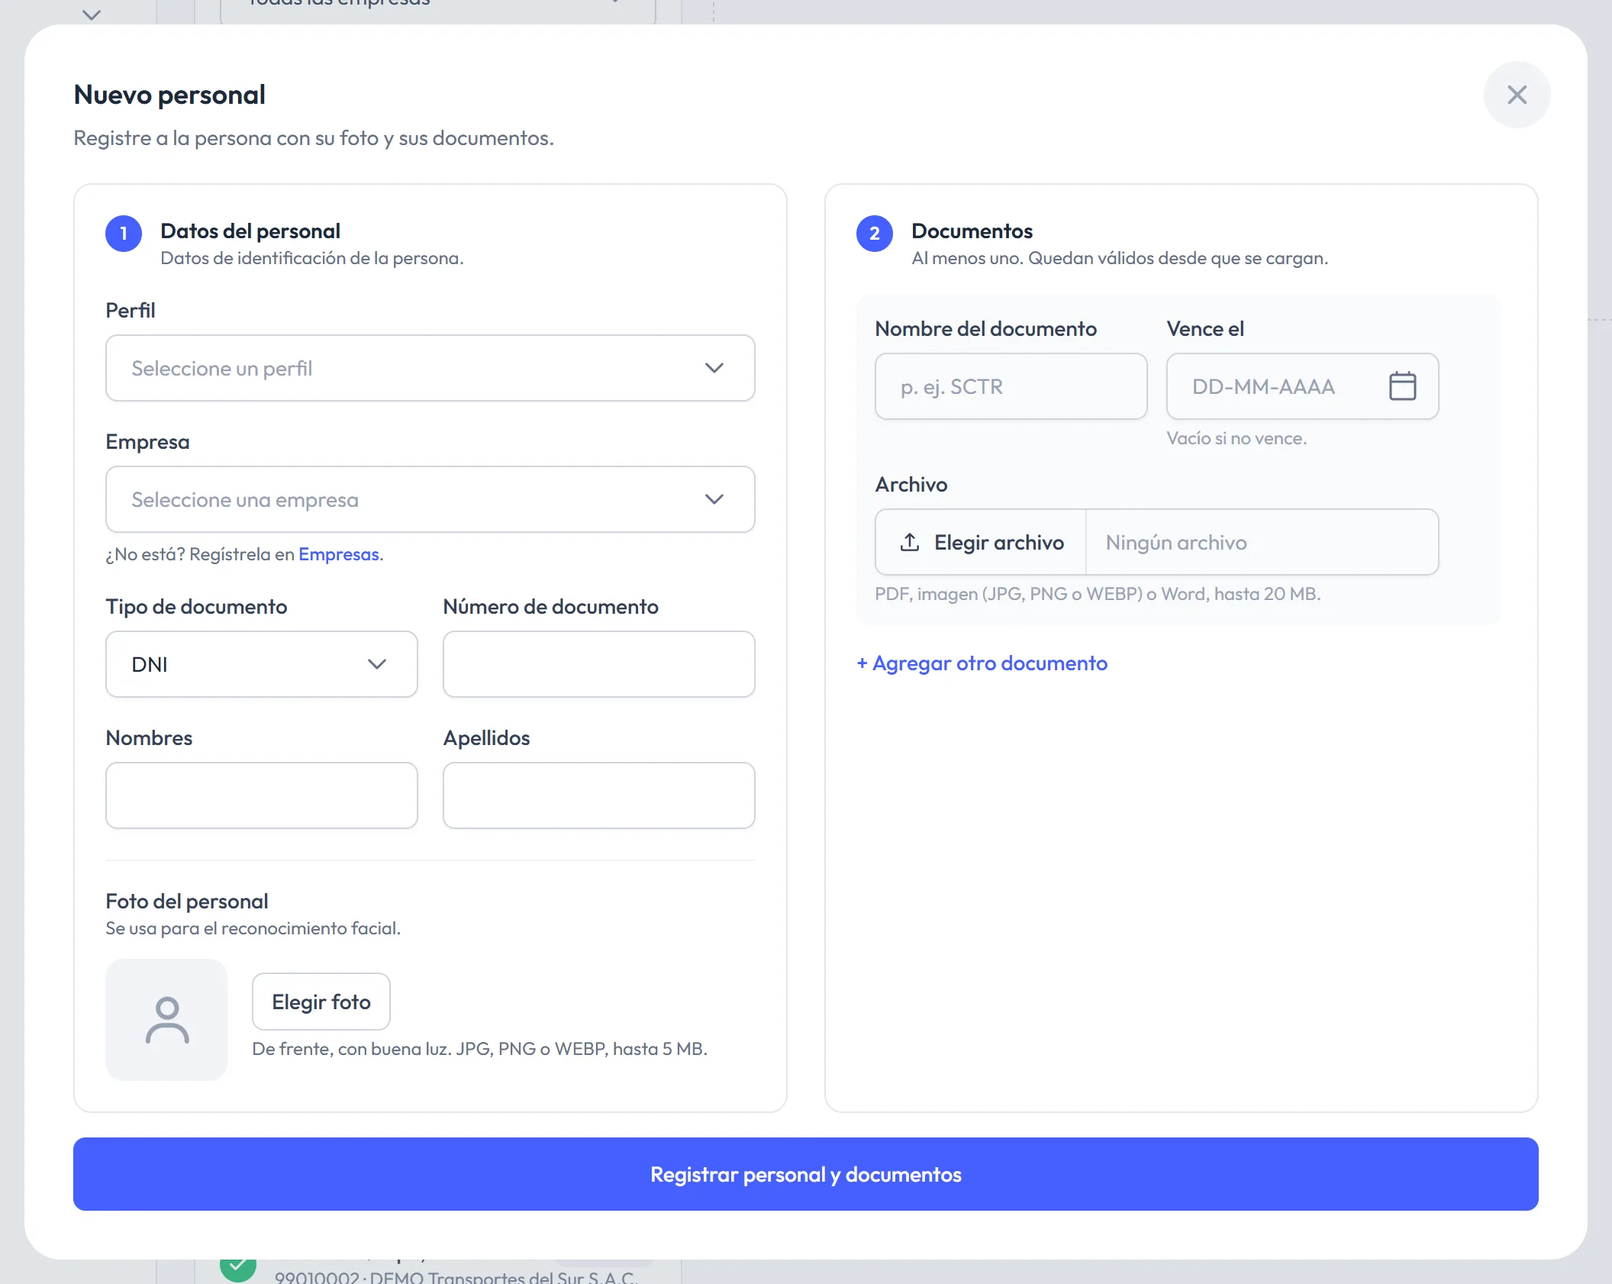
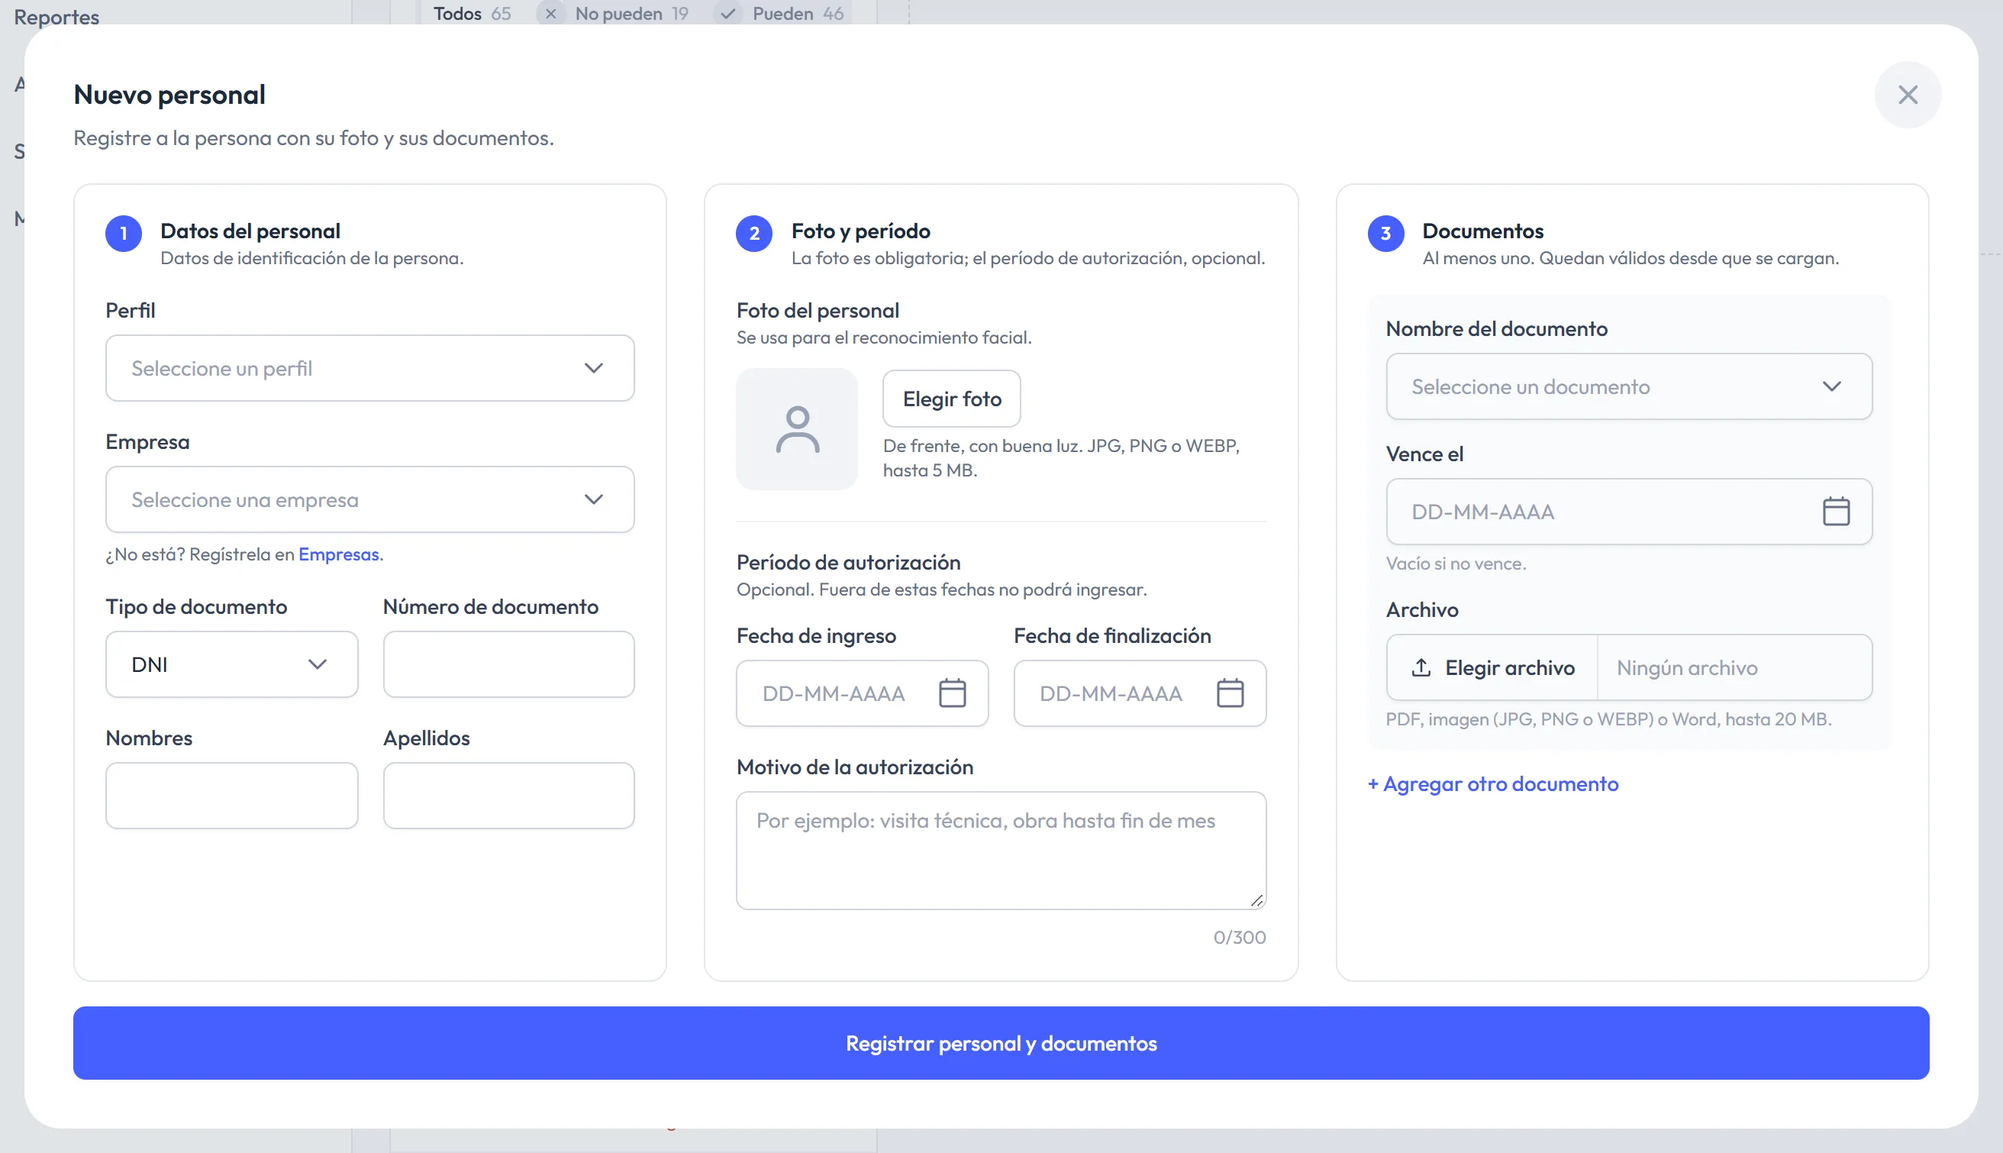
update tarjeta lectura contingencia

diff --git a/mollendo-portal/src/app/(admin)/manual/secciones.tsx b/mollendo-portal/src/app/(admin)/manual/secciones.tsx
@@ -136,7 +136,7 @@ export const SECCIONES: SeccionManual[] = [
               <>
                 <p>
                   Junto al nombre se ve su <b>perfil</b>. “Editar datos” corrige el perfil, la empresa, el tipo y número de documento, los
-                  nombres y los apellidos. El DNI va con 8 dígitos y no puede repetirse. Queda en la Auditoría.
+                  nombres, los apellidos y el período de autorización. El DNI va con 8 dígitos y no puede repetirse. Queda en la Auditoría.
                 </p>
                 <p>
                   Si cambia el <b>número de documento</b>, desde que guarde la persona debe pasar su documento nuevo por el lector. El
@@ -257,10 +257,19 @@ export const SECCIONES: SeccionManual[] = [
             ),
           },
           {
+            titulo: "Período de autorización (opcional)",
+            texto: (
+              <p>
+                Fecha de ingreso, fecha de finalización y motivo. Si lo usa, van los tres; fuera de esas fechas la persona <b>no podrá
+                ingresar</b>. Vacío, no tiene límite de fechas.
+              </p>
+            ),
+          },
+          {
             titulo: "Documentos (al menos uno)",
             texto: (
               <p>
-                Nombre (por ejemplo, SCTR), fecha de vencimiento y archivo. La fecha va <b>vacía si no vence</b> y no puede ser una fecha ya
+                Nombre (elegido de la lista: SCTR, CAMO o la inducción SSMA), fecha de vencimiento y archivo. La fecha va <b>vacía si no vence</b> y no puede ser una fecha ya
                 pasada. Archivo PDF, imagen (JPG, PNG o WEBP) o Word, de hasta 20 MB.
               </p>
             ),
@@ -306,6 +315,10 @@ export const SECCIONES: SeccionManual[] = [
                 <p>
                   Un Excel con las columnas Perfil, Empresa, Tipo de documento, Número de documento, Nombres y Apellidos. Perfil, empresa y
                   tipo de documento se eligen de listas; la hoja “Instrucciones” explica cada columna.
+                </p>
+                <p>
+                  Tiene además tres columnas opcionales para el período de autorización: Fecha de ingreso, Fecha de finalización (DD/MM/AAAA)
+                  y Motivo de la autorización. Si llena una, van las tres.
                 </p>
                 <p>
                   La empresa también se puede escribir por su RUC. Si no está, regístrela primero en <b>Empresas</b> y vuelva a descargar la
@@ -533,6 +546,10 @@ export const SECCIONES: SeccionManual[] = [
                   <Motivo m="Dado de baja" hacer="No puede entrar. Solo el administrador puede reactivarlo." />
                   <Motivo m="Sin documentos ›" hacer="No tiene documentos registrados. El administrador debe subirlos." />
                   <Motivo m="Documentos ›" hacer="Tiene un documento vencido. Tóquelo para ver cuál; el administrador sube el nuevo." />
+                  <Motivo
+                    m="Fuera del período autorizado"
+                    hacer="Su período de autorización no incluye hoy. El administrador puede cambiarlo en «Editar datos»."
+                  />
                   <Motivo
                     m="Alcohol"
                     hacer="Dio positivo en la prueba de alcohol. No puede entrar. Queda con su nombre aunque no haya pasado su DNI."

diff --git a/mollendo-portal/src/app/(admin)/PersonalDocumentos.tsx b/mollendo-portal/src/app/(admin)/PersonalDocumentos.tsx
@@ -50,13 +50,20 @@ export function PersonalDocumentos() {
   // En el celular la ficha queda debajo de la lista: al elegir a alguien se
   // baja hasta ella, para que se vea que se abrió.
   const fichaRef = useRef<HTMLDivElement>(null);
+  // Sube cada vez que hay que volver a leer la ficha abierta (va en su key).
+  const [lecturaFicha, setLecturaFicha] = useState(0);
   function elegir(id: number) {
     // Otro clic en la persona ya elegida la deselecciona (vuelve a los contadores).
     if (id === seleccionada) {
       setSeleccionada(null);
       return;
     }
+    abrirFicha(id);
+  }
+  /** Abre la ficha de la persona (sin deseleccionarla si ya estaba abierta) y la vuelve a leer. */
+  function abrirFicha(id: number) {
     setSeleccionada(id);
+    setLecturaFicha((n) => n + 1);
     if (window.innerWidth < 1024) {
       requestAnimationFrame(() => fichaRef.current?.scrollIntoView({ behavior: "smooth", block: "start" }));
     }
@@ -386,7 +393,7 @@ export function PersonalDocumentos() {
         >
           {seleccionada ? (
             <PersonaFicha
-              key={seleccionada}
+              key={`${seleccionada}-${lecturaFicha}`}
               personaId={seleccionada}
               onCambio={actualizarFila}
             />
@@ -464,9 +471,10 @@ export function PersonalDocumentos() {
         isOpen={modalOpen}
         onClose={() => setModalOpen(false)}
         onCreated={(persona) => {
-          // Cambia el ✔/✖ de la lista.
+          // Cambia el ✔/✖ de la lista. Se llama al crear la persona y otra vez al terminar
+          // de subir sus documentos: la ficha se vuelve a leer, si no, quedaba "Sin documentos".
           void recargar();
-          elegir(persona.id);
+          abrirFicha(persona.id);
         }}
         onRecargarEmpresas={recargarEmpresas}
         empresas={empresas}

diff --git a/mollendo-portal/src/components/personal/PeriodoAutorizacionCampos.tsx b/mollendo-portal/src/components/personal/PeriodoAutorizacionCampos.tsx
@@ -2,7 +2,6 @@
 
 import React from "react";
 import Label from "@/components/form/Label";
-import Input from "@/components/form/input/InputField";
 import DatePicker from "@/components/form/date-picker";
 import type { Periodo } from "@/lib/periodo";
 
@@ -50,12 +49,18 @@ export function PeriodoAutorizacionCampos({
           />
         </div>
         <div className="sm:col-span-2">
-          <Label>Motivo de la autorización</Label>
-          <Input
-            placeholder="Por ejemplo: visita técnica, obra hasta fin de mes"
-            defaultValue={periodo.motivo}
+          {/* Como el motivo de la baja: área de texto con contador (la base guarda hasta 300). */}
+          <Label htmlFor={`${id}-motivo`}>Motivo de la autorización</Label>
+          <textarea
+            id={`${id}-motivo`}
+            rows={3}
+            maxLength={300}
+            value={periodo.motivo}
             onChange={(e) => onChange({ ...periodo, motivo: e.target.value })}
+            placeholder="Por ejemplo: visita técnica, obra hasta fin de mes"
+            className="w-full rounded-lg border border-gray-300 bg-transparent px-3 py-2 text-sm text-gray-800 placeholder:text-gray-400 focus:border-brand-300 focus:outline-hidden focus:ring-3 focus:ring-brand-500/10 dark:border-gray-700 dark:text-white/90"
           />
+          <p className="mt-1 text-right text-xs text-gray-400">{periodo.motivo.length}/300</p>
         </div>
       </div>
     </div>

diff --git a/mollendo-portal/src/components/personal/CargaMasivaModal.tsx b/mollendo-portal/src/components/personal/CargaMasivaModal.tsx
@@ -306,8 +306,8 @@ export function CargaMasivaModal({
           <ol className="list-inside list-decimal space-y-1 text-sm text-gray-600 dark:text-gray-300">
             <li>Descargue la plantilla de Excel.</li>
             <li>
-              Llene una fila por persona: perfil, empresa, tipo y número de documento, nombres y apellidos (la hoja
-              &quot;Instrucciones&quot; explica cada columna).
+              Llene una fila por persona: perfil, empresa, tipo y número de documento, nombres y apellidos y, si corresponde, el
+              período de autorización (la hoja &quot;Instrucciones&quot; explica cada columna).
             </li>
             <li>Súbala: el sistema revisa todas las filas y le muestra el resultado antes de guardar.</li>
           </ol>

diff --git a/PROGRESO.md b/PROGRESO.md
@@ -725,7 +725,7 @@ Resumen del estado actual. El detalle de cada cambio está en la bitácora (abaj
 - **2026-10-20** — **Monitor del G4 Pro en su propia página.** En Sistema y APIs la tarjeta ya no se despliega: título, descripción, insignia "En vivo" y botón **Abrir monitor**, que lleva a `/sistema/monitor` (la tabla de siempre, con "← Sistema y APIs" y "En vivo" arriba). Manual, guía de depuración y checklist (6.6) actualizados. Desplegado en Azure (portal); `/sistema/monitor` responde 200.
 - **2026-10-20** — **Monitor: horas y demora.** La demora cuenta segundos enteros (antes redondeaba: 18:24:26 → 18:24:37,6 decía 12 s en vez de 11). La prueba lleva siempre el día; llegada e ingreso solo la hora (el día solo si cambia).
 - **2026-10-20** — **Monitor del G4 Pro por días y páginas.** Como el Panel: empieza en hoy (selector de día, "Hoy", "Todos los días"), búsqueda por nombre o DNI y 10 por página, como el Panel con "Mostrando X a Y de Z" (antes, las 30 últimas). `GET /integraciones/g4pro/marcaciones` acepta pagina, porPagina, busqueda, desde y hasta (por la llegada) y devuelve `{datos, total, pagina, porPagina}`; las pruebas que no llegaron se comparan con la anterior del equipo aunque esté en otra página o día (con búsqueda no se marcan). "En vivo" solo con hoy o todos los días. Probado en Azure con los datos reales (hoy 4 pruebas; "vilchez" 27). API 244/244, portal 131/131.
-- **2026-10-22** — **Período de autorización (en local, sin publicar).** Pedido: "Implementar el período de autorización con fecha de ingreso y fecha de finalización" + motivo; decisión del usuario: opcional, motivo obligatorio, también en la carga masiva. API: `persona.autorizado_desde/autorizado_hasta` (DATE) y `motivo_autorizacion`, y `evento_acceso.denegado_fuera_periodo` (migración `20261022120000_periodo_autorizacion`, aplicada solo en la base local); reglas en `personas/periodo-autorizacion.ts` (vacío = sin período; si hay algo, las dos fechas y el motivo; la finalización no antes del ingreso; las dos fechas incluidas); `fueraDelPeriodo` en el motor; el ingreso se deniega en `denegarSiNoCorresponde` (todos los caminos) con "Fuera del período autorizado" (después de baja y antipassback; junto con documentos); la salida no cambia. Lista, ficha, reporte de personal, Dashboard (motivos), Panel y Excel con el motivo; Auditoría con detalle ("Período autorizado de … del … al …. Motivo: …" / "Quitó el período…"). Carga masiva: columnas opcionales "Fecha de ingreso", "Fecha de finalización", "Motivo de la autorización" (DD/MM/AAAA, fecha de Excel o número de serie; una plantilla anterior sigue sirviendo). Portal: bloque "Período de autorización" en Nuevo personal y Editar datos (`PeriodoAutorizacionCampos`, `lib/periodo.ts`). Verificado con capturas (computadora y celular) y un ingreso real en local (denegado "Fuera del período autorizado"); personas DEMO restauradas. API 323/323, portal 159/159. Documento Funcional (RN-19, 4.2, motivos, carga masiva) al día; manual pendiente de aprobar el texto. Ventana "Nuevo personal" más ancha (pedido del usuario: muy alta, no se veía el botón): en pantallas anchas (xl) max-w-7xl; primero dos columnas dentro del recuadro de datos (al usuario le pareció pegado), luego **tres recuadros iguales** (opción elegida por el usuario): 1 Datos del personal, 2 Foto y período, 3 Documentos. Verificado en 1920, 1440 y 1280 (claro y oscuro) con el botón a la vista; en 1024 y celular se apila. Corregido (lo vio el usuario): la lista de documentos tenía altura máxima con desplazamiento propio y **cortaba el desplegable** del nombre del documento; luego, sin desplazamiento, la ventana crecía al agregar documentos. Solución final: el recuadro Documentos toma el alto de los otros dos y su lista se desplaza por dentro (en pantallas angostas, alto máximo 45vh); el desplegable del nombre es **flotante** (Combobox/Select `flotante`: se dibuja sobre la página y abre hacia arriba si abajo no hay lugar), así no se corta. Verificado en 1920, 1303 y 1280 con 1 y 4 documentos: la ventana no cambia de alto y las cinco opciones se ven. Corregido después (lo vio el usuario): al abrir el desplegable flotante, la página de atrás se desplazaba (unos 450 px) y parecía que la ventana bajaba; la lista cerrada quedaba en el flujo de la página y scrollIntoView la buscaba. Ahora la lista es fixed también cerrada y la opción se lleva a la vista desplazando solo la lista. Medido en 1566, 1783, 1303, 1280 y 1024: nada se mueve al abrir, elegir ni agregar documentos.
+- **2026-10-22** — **Período de autorización (en local, sin publicar).** Pedido: "Implementar el período de autorización con fecha de ingreso y fecha de finalización" + motivo; decisión del usuario: opcional, motivo obligatorio, también en la carga masiva. API: `persona.autorizado_desde/autorizado_hasta` (DATE) y `motivo_autorizacion`, y `evento_acceso.denegado_fuera_periodo` (migración `20261022120000_periodo_autorizacion`, aplicada solo en la base local); reglas en `personas/periodo-autorizacion.ts` (vacío = sin período; si hay algo, las dos fechas y el motivo; la finalización no antes del ingreso; las dos fechas incluidas); `fueraDelPeriodo` en el motor; el ingreso se deniega en `denegarSiNoCorresponde` (todos los caminos) con "Fuera del período autorizado" (después de baja y antipassback; junto con documentos); la salida no cambia. Lista, ficha, reporte de personal, Dashboard (motivos), Panel y Excel con el motivo; Auditoría con detalle ("Período autorizado de … del … al …. Motivo: …" / "Quitó el período…"). Carga masiva: columnas opcionales "Fecha de ingreso", "Fecha de finalización", "Motivo de la autorización" (DD/MM/AAAA, fecha de Excel o número de serie; una plantilla anterior sigue sirviendo). Portal: bloque "Período de autorización" en Nuevo personal y Editar datos (`PeriodoAutorizacionCampos`, `lib/periodo.ts`). Verificado con capturas (computadora y celular) y un ingreso real en local (denegado "Fuera del período autorizado"); personas DEMO restauradas. API 323/323, portal 159/159. Documento Funcional (RN-19, 4.2, motivos, carga masiva) al día; manual pendiente de aprobar el texto. Ventana "Nuevo personal" más ancha (pedido del usuario: muy alta, no se veía el botón): en pantallas anchas (xl) max-w-7xl; primero dos columnas dentro del recuadro de datos (al usuario le pareció pegado), luego **tres recuadros iguales** (opción elegida por el usuario): 1 Datos del personal, 2 Foto y período, 3 Documentos. Verificado en 1920, 1440 y 1280 (claro y oscuro) con el botón a la vista; en 1024 y celular se apila. Corregido (lo vio el usuario): la lista de documentos tenía altura máxima con desplazamiento propio y **cortaba el desplegable** del nombre del documento; luego, sin desplazamiento, la ventana crecía al agregar documentos. Solución final: el recuadro Documentos toma el alto de los otros dos y su lista se desplaza por dentro (en pantallas angostas, alto máximo 45vh); el desplegable del nombre es **flotante** (Combobox/Select `flotante`: se dibuja sobre la página y abre hacia arriba si abajo no hay lugar), así no se corta. Verificado en 1920, 1303 y 1280 con 1 y 4 documentos: la ventana no cambia de alto y las cinco opciones se ven. Corregido después (lo vio el usuario): al abrir el desplegable flotante, la página de atrás se desplazaba (unos 450 px) y parecía que la ventana bajaba; la lista cerrada quedaba en el flujo de la página y scrollIntoView la buscaba. Ahora la lista es fixed también cerrada y la opción se lleva a la vista desplazando solo la lista. Medido en 1566, 1783, 1303, 1280 y 1024: nada se mueve al abrir, elegir ni agregar documentos. El **motivo de la autorización** pasó a área de texto (3 líneas, máximo 300 con contador, como el motivo de la baja), en Nuevo personal y en Editar datos (pedido del usuario: con un texto largo no se veía completo). Textos aprobados aplicados: manual (punto «Período de autorización (opcional)» en Nuevo personal con su número en la captura, «Editar datos» con el período, columnas opcionales en «Descargar plantilla», motivo «Fuera del período autorizado» en el panel, nombre del documento «elegido de la lista») y paso 2 de la carga masiva. **Corregido (lo vio el usuario):** al registrar a alguien con documentos, la ficha quedaba en «No tiene documentos cargados» hasta recargar la página: el modal avisa dos veces (al crear la persona y al terminar los documentos) y la segunda no volvía a leer la ficha. Ahora la ficha lleva un contador en su key y se vuelve a leer cada vez. Probado registrando «Prueba Registro Ficha» (DNI 99099901, en la base local): la ficha muestra «Puede ingresar hoy» sin recargar.
 - **2026-10-22** — **Pendiente de publicar (el usuario pidió acumular cambios en local y subir todo junto):** `mollendo-portal/src/components/personal/NuevaPersonaModal.tsx` (campos del documento en su fila; margen de la X); **período de autorización** (API con migración `20261022120000_periodo_autorizacion` y `20261022100000_persona_motivo_reactivacion` ya está en Azure; portal). Pendiente de aprobar: texto del manual "Nombre (elegido de la lista: SCTR, CAMO o la inducción SSMA)…".
 - **2026-10-22** — **Nombre del documento: lista fija** (pedido del usuario). En "Nuevo personal" y "Agregar documento" el campo pasa a desplegable ("Seleccione un documento") con: SCTR Salud y Pensión; Certificado de Aptitud Médico Ocupacional (CAMO); Certificado de Inducción SSMA – Visitas / – Contratistas / – Personal de Planta (los cinco siempre, sin depender del perfil). Sin elegir: "Seleccione el documento". La API solo acepta esos nombres ("Seleccione un documento de la lista"; `tipos-documento/documentos-personal.ts`, la misma lista en `mollendo-portal/src/lib/documentos.ts`). Los 12 documentos con nombres escritos a mano antes (SCTR SALUD Y PENSION, SCTR Salud, SCRT, CAMO, INDUCCION DE SSMA PERSONAL NUEVO; "Examen médico ocupacional" sin uso) **no se tocaron**: siguen valiendo y se renuevan con su nombre; unirlos a la lista queda a decisión del usuario. Documento Funcional (4.2, RN-11, datos) al día; manual pendiente de aprobar el texto. Corregido (lo vio el usuario): el desplegable estaba a media columna y cortaba los nombres con "…"; ahora ocupa toda la fila ("Vence el" debajo; en Agregar documento, el botón al final) y la lista muestra los nombres completos (`textoCompleto` en Combobox/Select, solo en esta lista). En Nuevo personal, "Vence el" y "Archivo" en la misma fila: el archivo no cabía ("N…"); **solo en local (sin publicar)**: cada campo en su fila a todo el ancho (opción elegida por el usuario) y el margen de la X de "Quitar" solo cuando se muestra (+28 px). Verificado con capturas en celular (375), tablet (768) y computadora (1440), claro y oscuro, en Nuevo personal y Agregar documento: las cinco opciones completas, sin desborde. API (prueba nueva) y portal 154/154. Desplegado en Azure (API y portal; respaldo `~/respaldo-lista-documentos-*.tgz`); mini PC igual a la local.
 - **2026-10-22** — **Motivo obligatorio al dar de baja y al reactivar al personal** (textos aprobados). Ventana "Reactivar": campo "Motivo de la reactivación *" (hasta 300; ejemplo "volvió a trabajar en el Terminal, se levantó la sanción…"); "Motivo de la baja *" deja de ser opcional; los botones quedan **siempre habilitados** (pedido del usuario: apagados no se entendía) y sin motivo la ventana avisa en rojo, debajo de la descripción (como Carga masiva); la API también lo exige. Textos acortados (aprobados): una sola descripción en cada ventana ("¿Dar de baja a NOMBRE? Ya no podrá ingresar, aunque tenga sus documentos al día; sí podrá salir. Sus datos e historial se conservan." / "¿Reactivar a NOMBRE? Podrá volver a ingresar si tiene sus documentos al día.") y ejemplos cortos en los campos. Corregido (lo vio el usuario): al cerrar la ventana con el aviso "Escriba el motivo…", el mensaje quedaba en la ficha; ahora Cancelar y la X lo borran (prueba nueva; portal 39/39 en personal) ("Escriba el motivo de la baja / de la reactivación"). Se guarda `persona.motivo_reactivacion` y `fecha_reactivacion` (migración `20261022100000_persona_motivo_reactivacion`; se borran al dar de baja, y los de la baja al reactivar); la ficha muestra "Reactivado el …: motivo" mientras siga activo. Auditoría con detalle: "Dio de baja a / Reactivó a NOMBRE (DNI …). Motivo: …". Manual ("Dar de baja y reactivar") y Documento Funcional al día. API 303/303 (prueba nueva `personas-estado.spec.ts`), portal 150/150. Desplegado en Azure (migración aplicada; API y portal; respaldo `~/respaldo-motivo-estado-*.tgz`); mini PC igual a la local.
